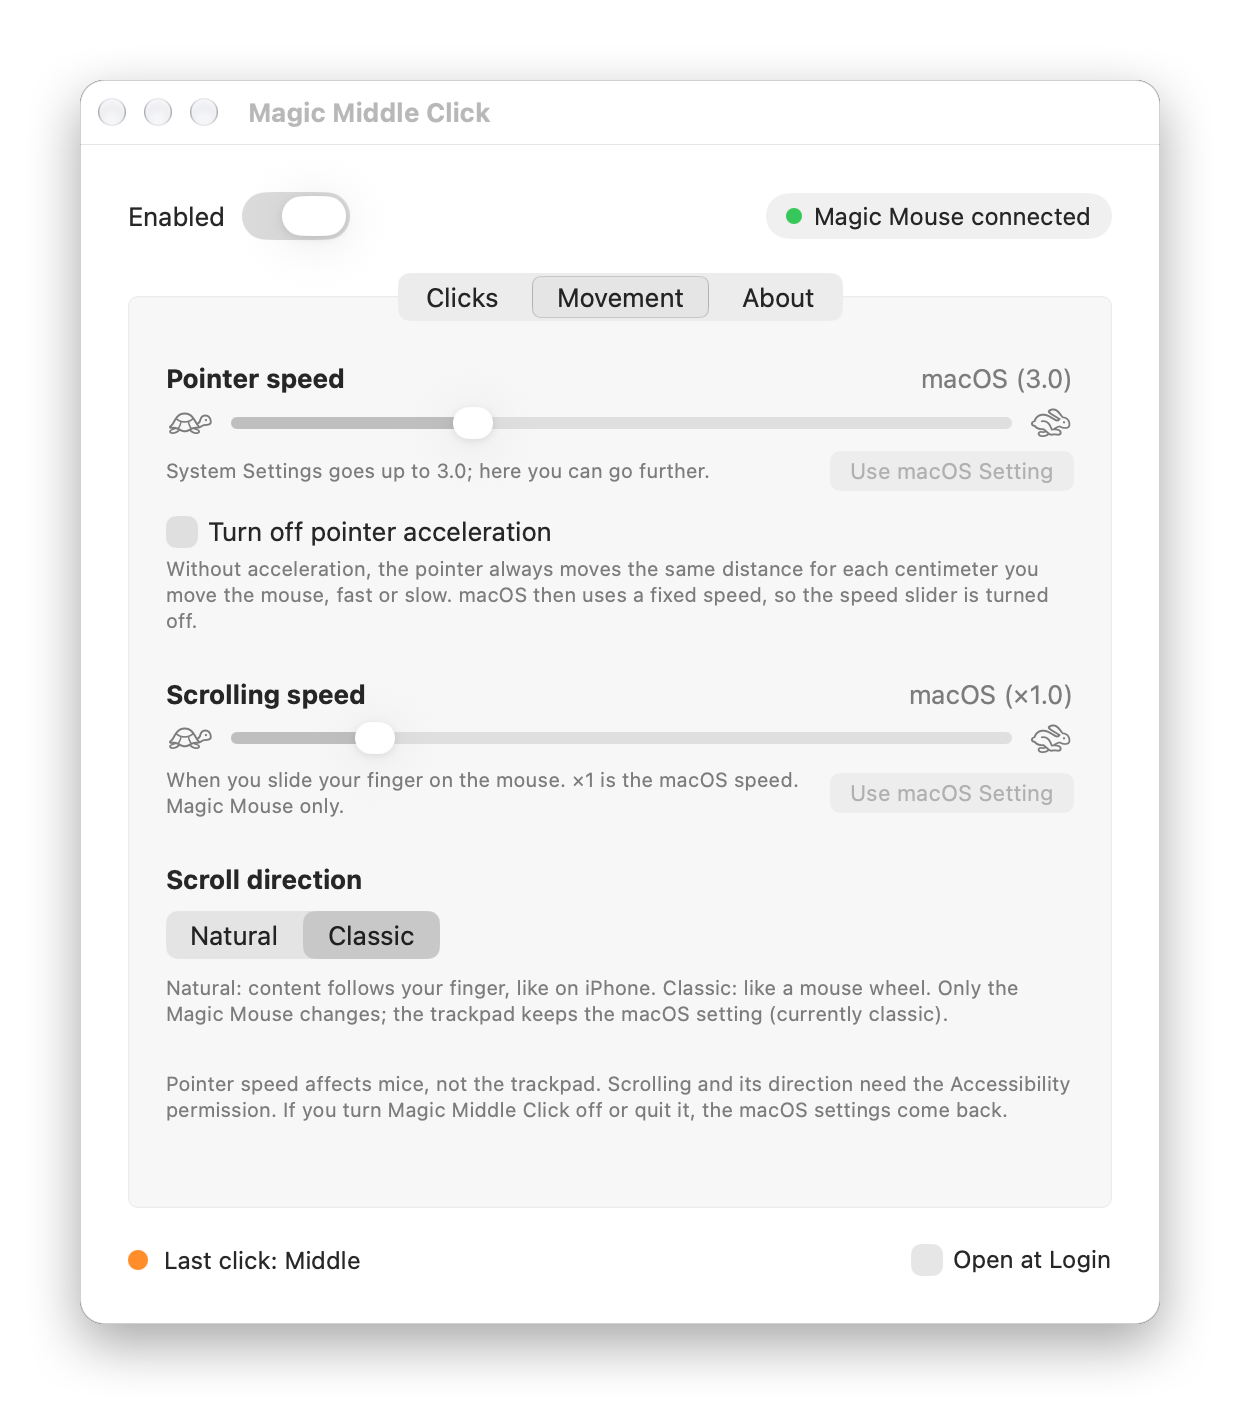
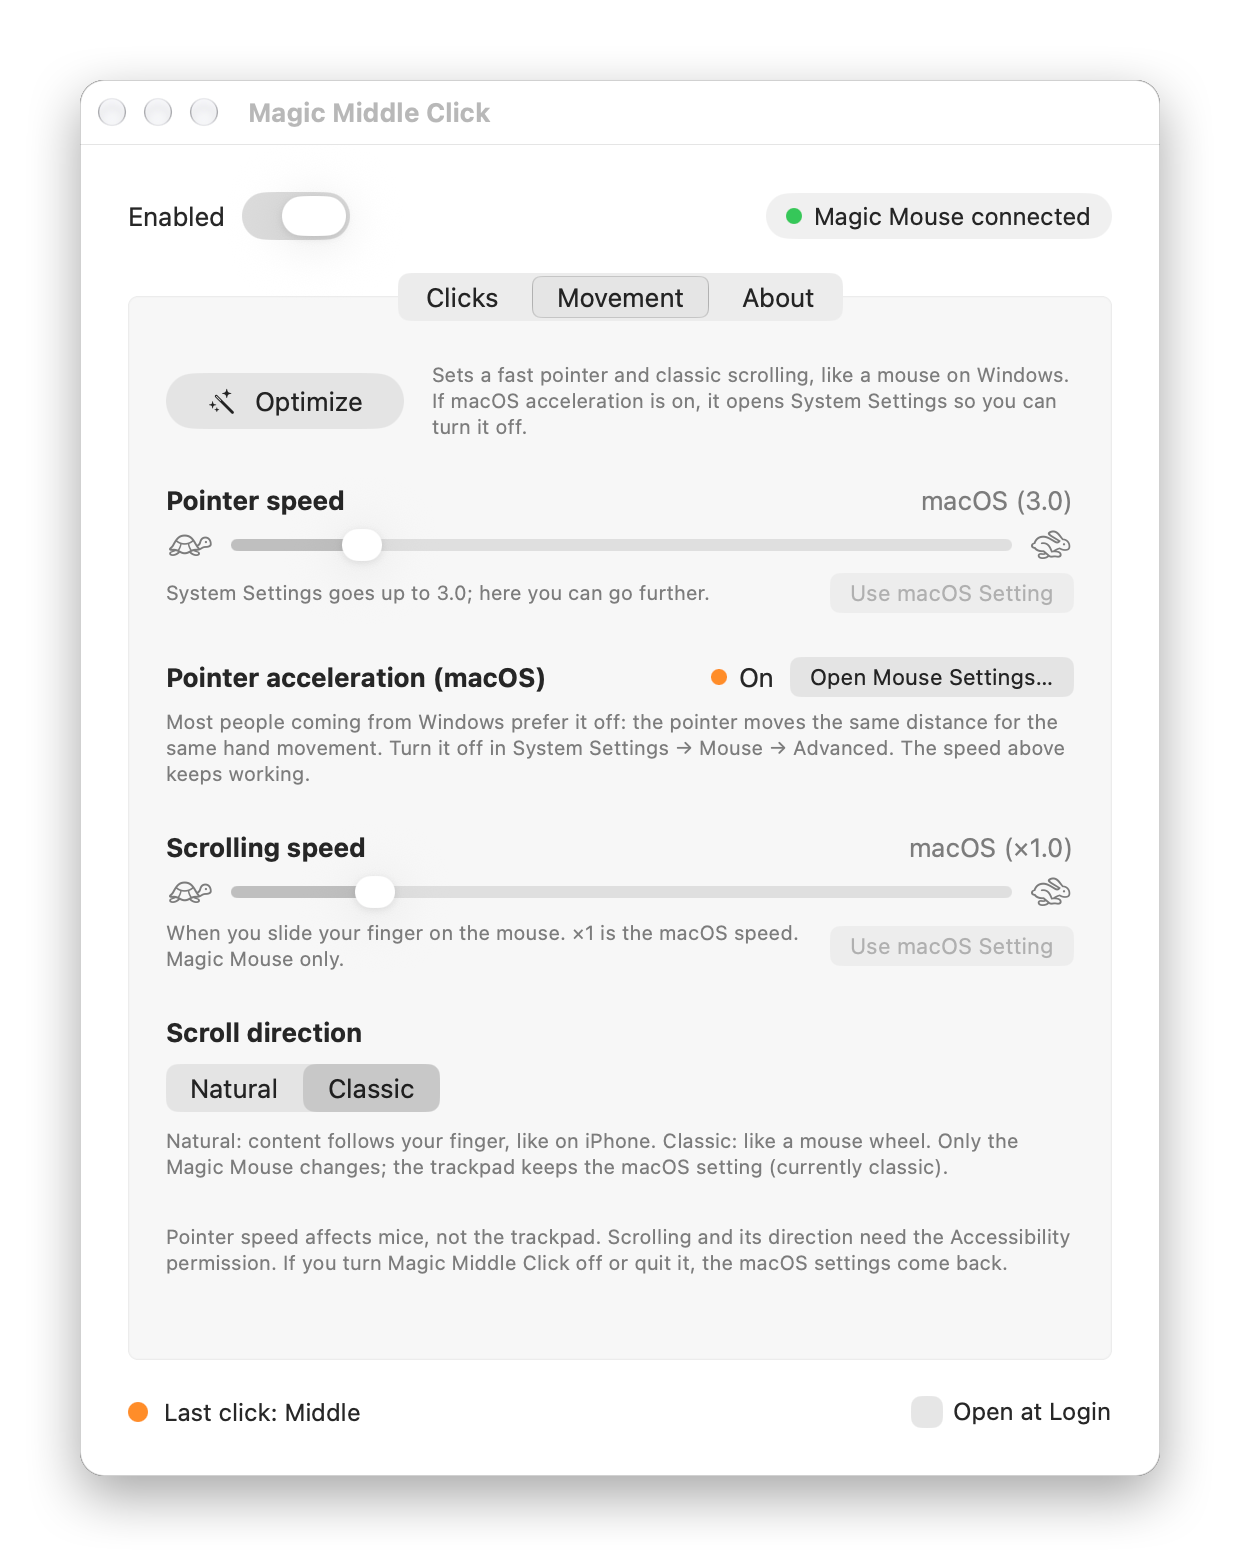
1.0.1: Optimize button, pointer speed up to 20, macOS acceleration status
- Optimize sets a fast pointer (10) and classic scrolling, and opens System Settings → Mouse
  if macOS pointer acceleration is on: the closest setup to how a mouse feels on Windows
- Pointer speed slider now goes up to 20
- The app's own "no acceleration" option is gone: it forced a fixed, slow speed. The Movement tab
  now shows whether macOS acceleration is on, with a button to open Mouse settings; the speed
  slider keeps working with it off

diff --git a/Sources/Settings.swift b/Sources/Settings.swift
@@ -47,15 +47,9 @@ final class AppSettings: ObservableObject {
         }
     }
 
-    /// Turn off pointer acceleration. The pointer then moves at a fixed speed, so `pointerSpeed` doesn't apply.
-    @Published var disableAcceleration: Bool {
-        didSet {
-            defaults.set(disableAcceleration, forKey: Key.disableAcceleration)
-            // Turning acceleration back on without a custom speed: go back to the macOS speed.
-            if oldValue && !disableAcceleration && pointerSpeed == nil { tuning.restorePointerSpeed() }
-            applyMotion()
-        }
-    }
+    /// Whether pointer acceleration is off in macOS (System Settings → Mouse → Advanced). Read-only for the app;
+    /// refreshed while the settings window is open.
+    @Published private(set) var systemAccelerationOff = false
 
     /// Magic Mouse scrolling multiplier (1 = same as macOS), or nil to leave it alone.
     @Published var scrollMultiplier: Double? {
@@ -80,7 +74,7 @@ final class AppSettings: ObservableObject {
         pointerSpeed = (defaults.object(forKey: Key.pointerSpeed) as? Double).map { min(max($0, MouseTuning.pointerRange.lowerBound), MouseTuning.pointerRange.upperBound) }
         scrollMultiplier = (defaults.object(forKey: Key.scrollMultiplier) as? Double).map { min(max($0, MouseTuning.scrollMultiplierRange.lowerBound), MouseTuning.scrollMultiplierRange.upperBound) }
         naturalScroll = defaults.object(forKey: Key.naturalScroll) as? Bool
-        disableAcceleration = defaults.bool(forKey: Key.disableAcceleration)
+        systemAccelerationOff = tuning.systemAccelerationOff
         migrateOldSettings()
         push()
     }
@@ -110,12 +104,7 @@ final class AppSettings: ObservableObject {
             EventTap.shared.scrollMultiplier = 1
             return
         }
-        // Without acceleration the speed is fixed by macOS, so a custom speed only applies with acceleration on.
-        if disableAcceleration {
-            tuning.setAccelerationOff()
-        } else if let pointerSpeed {
-            tuning.setPointerSpeed(pointerSpeed)
-        }
+        if let pointerSpeed { tuning.setPointerSpeed(pointerSpeed) }
         EventTap.shared.scrollMultiplier = scrollMultiplier ?? 1
         let wantNatural = naturalScroll ?? tuning.systemNaturalScroll
         EventTap.shared.invertMouseScroll = wantNatural != tuning.systemNaturalScroll
@@ -124,9 +113,24 @@ final class AppSettings: ObservableObject {
 
     /// Puts the macOS values back (when the app is turned off or quits).
     func restoreSystemMotion() {
-        if disableAcceleration || pointerSpeed != nil { tuning.restorePointerSpeed() }
+        if pointerSpeed != nil { tuning.restorePointerSpeed() }
         EventTap.shared.invertMouseScroll = false
         EventTap.shared.scrollMultiplier = 1
+    }
+
+    /// Re-reads the macOS settings the app shows but can't change.
+    func refreshSystemState() {
+        let off = tuning.systemAccelerationOff
+        if off != systemAccelerationOff { systemAccelerationOff = off }
+    }
+
+    /// The setup closest to how mice feel on Windows: a fast pointer and classic scrolling. It works best
+    /// with macOS pointer acceleration off, which only System Settings can change, so it opens it if needed.
+    func optimize() {
+        pointerSpeed = MouseTuning.optimizedPointerSpeed
+        naturalScroll = false
+        refreshSystemState()
+        if !systemAccelerationOff { tuning.openMouseSettings() }
     }
 
     /// Cleans up settings from earlier versions.
@@ -135,6 +139,13 @@ final class AppSettings: ObservableObject {
         if defaults.object(forKey: "scrollSpeed") != nil {
             tuning.restoreScrollAcceleration()
             defaults.removeObject(forKey: "scrollSpeed")
+        }
+        // Version 1.0.0 had its own "no acceleration" option (acceleration -1, at a fixed, slow speed).
+        // It was replaced by the macOS setting; drop it and give the pointer a normal speed again.
+        if defaults.object(forKey: Key.disableAcceleration) != nil {
+            let wasOn = defaults.bool(forKey: Key.disableAcceleration)
+            defaults.removeObject(forKey: Key.disableAcceleration)
+            if wasOn && pointerSpeed == nil { tuning.restorePointerSpeed() }
         }
         for key in ["mode", "highlightPointer", "highlightSize"] { defaults.removeObject(forKey: key) }
     }

diff --git a/Sources/MouseTuning.swift b/Sources/MouseTuning.swift
@@ -1,4 +1,4 @@
-import Foundation
+import AppKit
 import IOKit.hidsystem
 
 /// Mouse pointer speed and acceleration, through the macOS HID event system.
@@ -8,9 +8,12 @@ import IOKit.hidsystem
 final class MouseTuning {
     static let shared = MouseTuning()
 
-    static let pointerRange: ClosedRange<Double> = 0...10
+    static let pointerRange: ClosedRange<Double> = 0...20
     /// Maximum of the pointer speed slider in System Settings.
     static let systemPointerMax = 3.0
+    /// Speed set by Optimize. Tested on a Magic Mouse; it applies on top of macOS's own
+    /// "no acceleration" mode, which is the closest to how mice feel on Windows.
+    static let optimizedPointerSpeed = 10.0
     /// Scrolling multiplier (1 = same as macOS).
     static let scrollMultiplierRange: ClosedRange<Double> = 0.2...5
 
@@ -23,6 +26,8 @@ final class MouseTuning {
         static let pointer = "com.apple.mouse.scaling"
         static let scroll = "com.apple.scrollwheel.scaling"
         static let natural = "com.apple.swipescrolldirection"
+        /// System Settings → Mouse → Advanced → Pointer acceleration (true = acceleration off).
+        static let linear = "com.apple.mouse.linear"
     }
 
     private let client = IOHIDEventSystemClientCreateSimpleClient(kCFAllocatorDefault)
@@ -31,14 +36,21 @@ final class MouseTuning {
     var systemPointerSpeed: Double { MouseTuning.globalDouble(PrefKey.pointer) ?? 1.0 }
     var systemNaturalScroll: Bool { (UserDefaults.standard.object(forKey: PrefKey.natural) as? Bool) ?? true }
 
+    /// true if pointer acceleration is turned off in macOS. Apps can't change it: macOS rejects
+    /// HIDUseLinearScalingMouseAcceleration from anything but the system, and the Magic Mouse's own HID
+    /// service is hidden from apps. So the app reads it and sends the user to System Settings.
+    var systemAccelerationOff: Bool {
+        CFPreferencesAppSynchronize(kCFPreferencesAnyApplication)
+        return (UserDefaults.standard.object(forKey: PrefKey.linear) as? NSNumber)?.boolValue ?? false
+    }
+
+    /// Opens System Settings → Mouse, where pointer acceleration is turned off (under Advanced).
+    func openMouseSettings() {
+        NSWorkspace.shared.open(URL(string: "x-apple.systempreferences:com.apple.Mouse-Settings.extension")!)
+    }
+
     func setPointerSpeed(_ value: Double) { set(HIDKey.pointer, value) }
     func restorePointerSpeed() { set(HIDKey.pointer, systemPointerSpeed) }
-
-    /// Turns pointer acceleration off. A negative acceleration (-1) is how the HID system has always meant
-    /// "no acceleration": the pointer moves the same distance for the same hand movement, at a fixed speed.
-    /// (The key macOS itself uses for this, HIDUseLinearScalingMouseAcceleration, can only be set by the
-    /// system: it rejects it from regular apps.)
-    func setAccelerationOff() { set(HIDKey.pointer, -1) }
 
     /// Puts the scroll acceleration back to the macOS value. Only used to undo what an earlier version
     /// of the app changed (macOS doesn't use it for Magic Mouse touch scrolling).

diff --git a/Sources/SettingsView.swift b/Sources/SettingsView.swift
@@ -252,22 +252,42 @@ private struct MotionTab: View {
     var body: some View {
         let systemNatural = tuning.systemNaturalScroll
         VStack(alignment: .leading, spacing: 22) {
+            HStack(alignment: .center, spacing: 14) {
+                Button { settings.optimize() } label: {
+                    Label(L("Optimize"), systemImage: "wand.and.stars")
+                        .padding(.horizontal, 6)
+                }
+                .buttonStyle(.borderedProminent)
+                .controlSize(.large)
+                Text(L("Sets a fast pointer and classic scrolling, like a mouse on Windows. If macOS acceleration is on, it opens System Settings so you can turn it off."))
+                    .font(.caption).foregroundStyle(.secondary)
+                    .fixedSize(horizontal: false, vertical: true)
+            }
+
             SpeedRow(title: L("Pointer speed"),
                      value: settings.pointerSpeed,
                      systemValue: tuning.systemPointerSpeed,
                      range: MouseTuning.pointerRange,
                      note: L("System Settings goes up to %@; here you can go further.", SpeedRow.format(MouseTuning.systemPointerMax)),
                      set: { settings.pointerSpeed = $0 })
-                .disabled(settings.disableAcceleration)
-                .opacity(settings.disableAcceleration ? 0.45 : 1)
 
-            VStack(alignment: .leading, spacing: 4) {
-                Toggle(L("Turn off pointer acceleration"), isOn: $settings.disableAcceleration)
-                Text(L("Without acceleration, the pointer always moves the same distance for each centimeter you move the mouse, fast or slow. macOS then uses a fixed speed, so the speed slider is turned off."))
+            VStack(alignment: .leading, spacing: 6) {
+                HStack {
+                    Text(L("Pointer acceleration (macOS)")).font(.headline)
+                    Spacer()
+                    HStack(spacing: 6) {
+                        Circle()
+                            .fill(settings.systemAccelerationOff ? Color.green : Color.orange)
+                            .frame(width: 8, height: 8)
+                        Text(settings.systemAccelerationOff ? L("Off") : L("On"))
+                    }
+                    Button(L("Open Mouse Settings…")) { MouseTuning.shared.openMouseSettings() }
+                        .controlSize(.small)
+                }
+                Text(L("Most people coming from Windows prefer it off: the pointer moves the same distance for the same hand movement. Turn it off in System Settings → Mouse → Advanced. The speed above keeps working."))
                     .font(.caption).foregroundStyle(.secondary)
                     .fixedSize(horizontal: false, vertical: true)
             }
-            .padding(.top, -10)
 
             SpeedRow(title: L("Scrolling speed"),
                      value: settings.scrollMultiplier,

diff --git a/Sources/AppDelegate.swift b/Sources/AppDelegate.swift
@@ -7,6 +7,7 @@ final class AppDelegate: NSObject, NSApplicationDelegate, NSMenuDelegate, NSWind
     private var settingsWindow: NSWindow?
     private var permissionTimer: Timer?
     private var sigterm: DispatchSourceSignal?
+    private var systemStateTimer: Timer?
 
     func applicationDidFinishLaunching(_ notification: Notification) {
         statusItem = NSStatusBar.system.statusItem(withLength: NSStatusItem.squareLength)
@@ -233,6 +234,12 @@ final class AppDelegate: NSObject, NSApplicationDelegate, NSMenuDelegate, NSWind
             settingsWindow = window
         }
         GestureEngine.shared.setLive(true)
+        // While the window is open, follow changes made in System Settings (pointer acceleration).
+        AppSettings.shared.refreshSystemState()
+        systemStateTimer?.invalidate()
+        systemStateTimer = Timer.scheduledTimer(withTimeInterval: 1.5, repeats: true) { _ in
+            AppSettings.shared.refreshSystemState()
+        }
         NSApp.activate(ignoringOtherApps: true)
         settingsWindow?.makeKeyAndOrderFront(nil)
     }
@@ -240,5 +247,7 @@ final class AppDelegate: NSObject, NSApplicationDelegate, NSMenuDelegate, NSWind
     func windowWillClose(_ notification: Notification) {
         GestureEngine.shared.setLive(false)
         LiveTouches.shared.points = []
+        systemStateTimer?.invalidate()
+        systemStateTimer = nil
     }
 }

diff --git a/README.md b/README.md
@@ -6,7 +6,7 @@
 
 <p align="center">
   <strong>Add a middle click to your Apple Magic Mouse</strong>, choose how wide the left, middle and right click zones are,<br>
-  make the pointer faster than macOS allows, turn off mouse acceleration, and set scroll speed and direction just for the mouse.
+  make the pointer faster than macOS allows, get a Windows-like feel in one click, and set scroll speed and direction just for the mouse.
 </p>
 
 <p align="center">
@@ -39,8 +39,8 @@ The Apple Magic Mouse has no middle button, and macOS has no setting to add one.
 - **Middle click for the Magic Mouse** with three click zones: left, middle and right.
 - **Adjustable zones.** Drag the lines on the mouse drawing or use the sliders. The default is 36% / 28% / 36%, and the left zone never goes below 15%, so normal clicking always works.
 - **Live finger view.** See your fingers on the mouse and which zone each one would click.
-- **Pointer speed beyond the macOS maximum**, from 0 to 10. System Settings stops at 3.
-- **Turn off mouse acceleration**: the pointer moves the same distance for the same hand movement, at a fixed speed.
+- **Pointer speed beyond the macOS maximum**, from 0 to 20. System Settings stops at 3.
+- **Optimize button for a Windows-like feel.** One click sets a fast pointer and classic scrolling, and takes you to macOS's own "no acceleration" setting. That combination is the closest to how a mouse feels on Windows: direct and predictable, with the speed you choose.
 - **Magic Mouse scrolling speed**, from ×0.2 to ×5.
 - **Natural or classic scrolling for the mouse only.** Keep natural scrolling on the trackpad and classic scrolling on the Magic Mouse, or the other way round. macOS normally forces one setting for both.
 - **Update notifications** when a new version is released, plus *Check for Updates…* in the menu.
@@ -84,10 +84,13 @@ Install Magic Middle Click and press with one finger in the middle zone of the m
 It's tested with the original Magic Mouse. Magic Mouse 2 and the USB‑C Magic Mouse use the same multitouch system, so they should work too. If you try one, please [tell us how it went](https://github.com/gonzaroman/magic-middle-click/issues).
 
 **How do I turn off mouse acceleration on a Mac?**
-Open Magic Middle Click → *Movement* → **Turn off pointer acceleration**. The pointer then always moves the same distance for each centimeter you move the mouse, at a fixed speed.
+Turn off **Pointer acceleration** in System Settings → Mouse → Advanced. Magic Middle Click shows whether it's on or off and has a button to open that setting. Its speed slider keeps working with acceleration off, so you get linear movement at the speed you want. The **Optimize** button does it all in one go.
+
+**How do I make the Magic Mouse feel like a mouse on Windows?**
+Open Magic Middle Click → *Movement* and click **Optimize**. It sets a fast pointer and classic scrolling, and if macOS pointer acceleration is on, it opens System Settings so you can turn it off. Then fine-tune the speed slider to taste.
 
 **Can I make my mouse faster than the macOS maximum?**
-Yes. The *Pointer speed* slider goes up to 10; System Settings stops at 3.
+Yes. The *Pointer speed* slider goes up to 20; System Settings stops at 3.
 
 **Can I use natural scrolling on the trackpad and classic scrolling on the mouse?**
 Yes. Choose the Magic Mouse direction in *Movement → Scroll direction*. The trackpad keeps whatever macOS has.
@@ -112,7 +115,7 @@ No accounts, no analytics, no tracking. The only network request is a daily chec
 
 - Finger positions come from Apple's private `MultitouchSupport` framework, the same source used by tools like BetterTouchTool and MiddleClick.
 - A `CGEventTap` rewrites left/right clicks into the button of the zone under your finger. It also scales or reverses scroll events that start with a finger on the Magic Mouse.
-- Pointer speed and acceleration use the macOS HID event system (`HIDMouseAcceleration`, where -1 means no acceleration), so they apply to mice and not to the trackpad.
+- Pointer speed and acceleration use the macOS HID event system (`HIDMouseAcceleration`), so they apply to mice and not to the trackpad. Turning acceleration off is left to macOS, because it only accepts that setting from the system.
 
 ## Build from source
 
